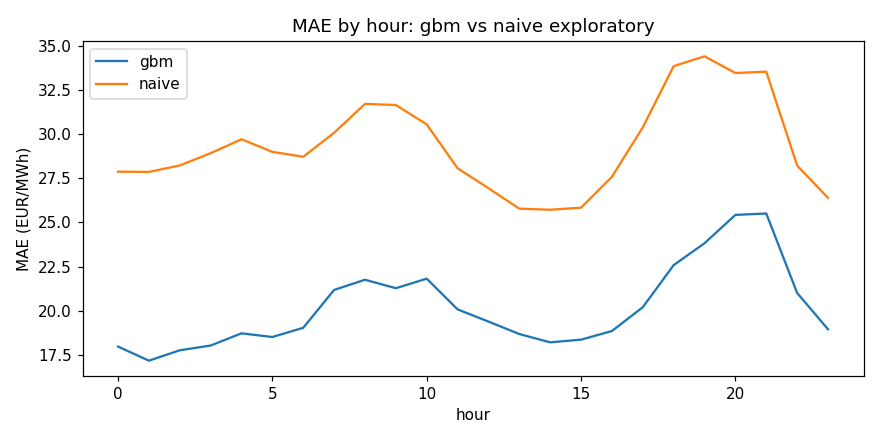
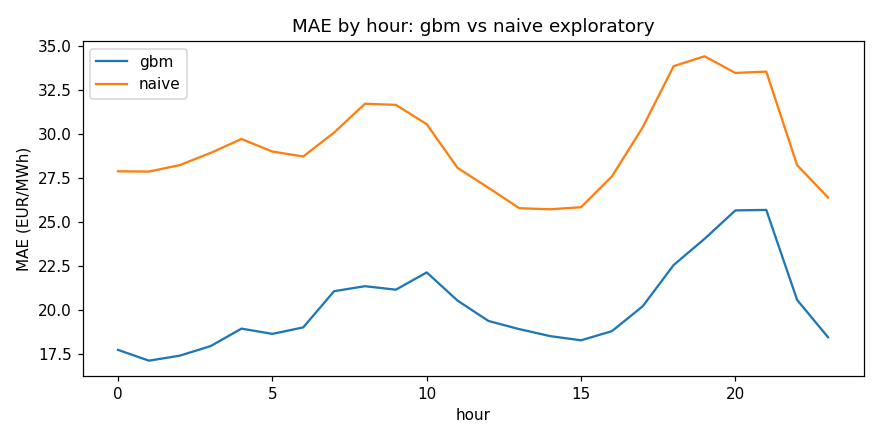
tighten leakage rules: morning demand to hours 0-10, prevista excluded by precaution

diff --git a/model/features.py b/model/features.py
@@ -4,7 +4,9 @@ One row per (date, hour) with the target price and only information that
 exists before the D-1 12:00 CET gate closure:
 
 - D-1 full price curve: published by OMIE on D-2 ~13:30, so fully known.
-- D-1 demand: only hours 0-11 (published in near real time that morning).
+- D-1 demand: only hours 0-10. Measured 2026-11-10: at 11:29 CET the
+  latest published 5-min value was timestamped 11:20 (~9 min latency),
+  so hour 11's mean is not fully published at the 12:00 gate closure.
 - D-7 / D-14 same-hour price and D-7 same-hour demand.
 - Calendar: hour, weekday, month, Spanish national holidays (approx list).
 
@@ -75,7 +77,7 @@ def build(exploratory: bool = False) -> pd.DataFrame:
 
     px_daily = px.groupby("date").mean()
     df["price_d1_mean"] = lag_daily(px_daily, 1)
-    dem_morning = dem[dem.index.get_level_values("hour") < 12].groupby("date").mean()
+    dem_morning = dem[dem.index.get_level_values("hour") < 11].groupby("date").mean()
     df["demand_d1_morning"] = lag_daily(dem_morning, 1)
 
     if exploratory:

diff --git a/README.md b/README.md
@@ -33,20 +33,23 @@ the D-1 12:00 gate closure may be used (or lag it), never the final value.
 
 `model/features.py` builds the leakage-safe table (one row per date/hour):
 D-1 full price curve (published on D-2), D-7/D-14 same-hour prices, D-7
-same-hour demand, D-1 morning demand (hours 0-11 only), calendar. REE's
-`prevista` series stays out: the public API serves revised values with no
-point-in-time vintage (checked 2026-11-10), so it can only appear in
+same-hour demand, D-1 morning demand (hours 0-10: measured ~9 min
+publication latency on the real-time series, so hour 11 is not complete
+at the 12:00 cutoff), calendar. REE's
+`prevista` series stays out: its values are revised intraday and we found
+no verified point-in-time vintage on the public API (checked 2026-11-10,
+bounded probe), so it is excluded by precaution and can only appear in
 `--exploratory` runs, which are labelled as such.
 
 `model/train.py` compares a gradient-boosted model against the naive
 "same hour last week" benchmark in monthly walk-forward folds (train on
 everything before the month, test the month, roll). Results in
-`report/metrics.json`: overall MAE 20.5 EUR/MWh vs 29.4 naive (RMSE 28.4
-vs 41.7), and the model wins every month until autumn 2026, when the price
+`report/metrics.json`: overall MAE 20.3 EUR/MWh vs 29.36 naive (RMSE 28.25
+vs 41.73), and the model wins every month until autumn 2026, when the price
 regime jumps (~250 EUR/MWh peaks) and the expanding window stops adapting -
 there it ties or loses to the naive. Short-window retraining and regime
 features are the obvious next step. `--exploratory` adds the revised
-prevista demand features: MAE 20.3, a small gain that cannot be trusted
+prevista demand features: MAE 20.17, a small gain that cannot be trusted
 without vintage data.
 
 ## Status
